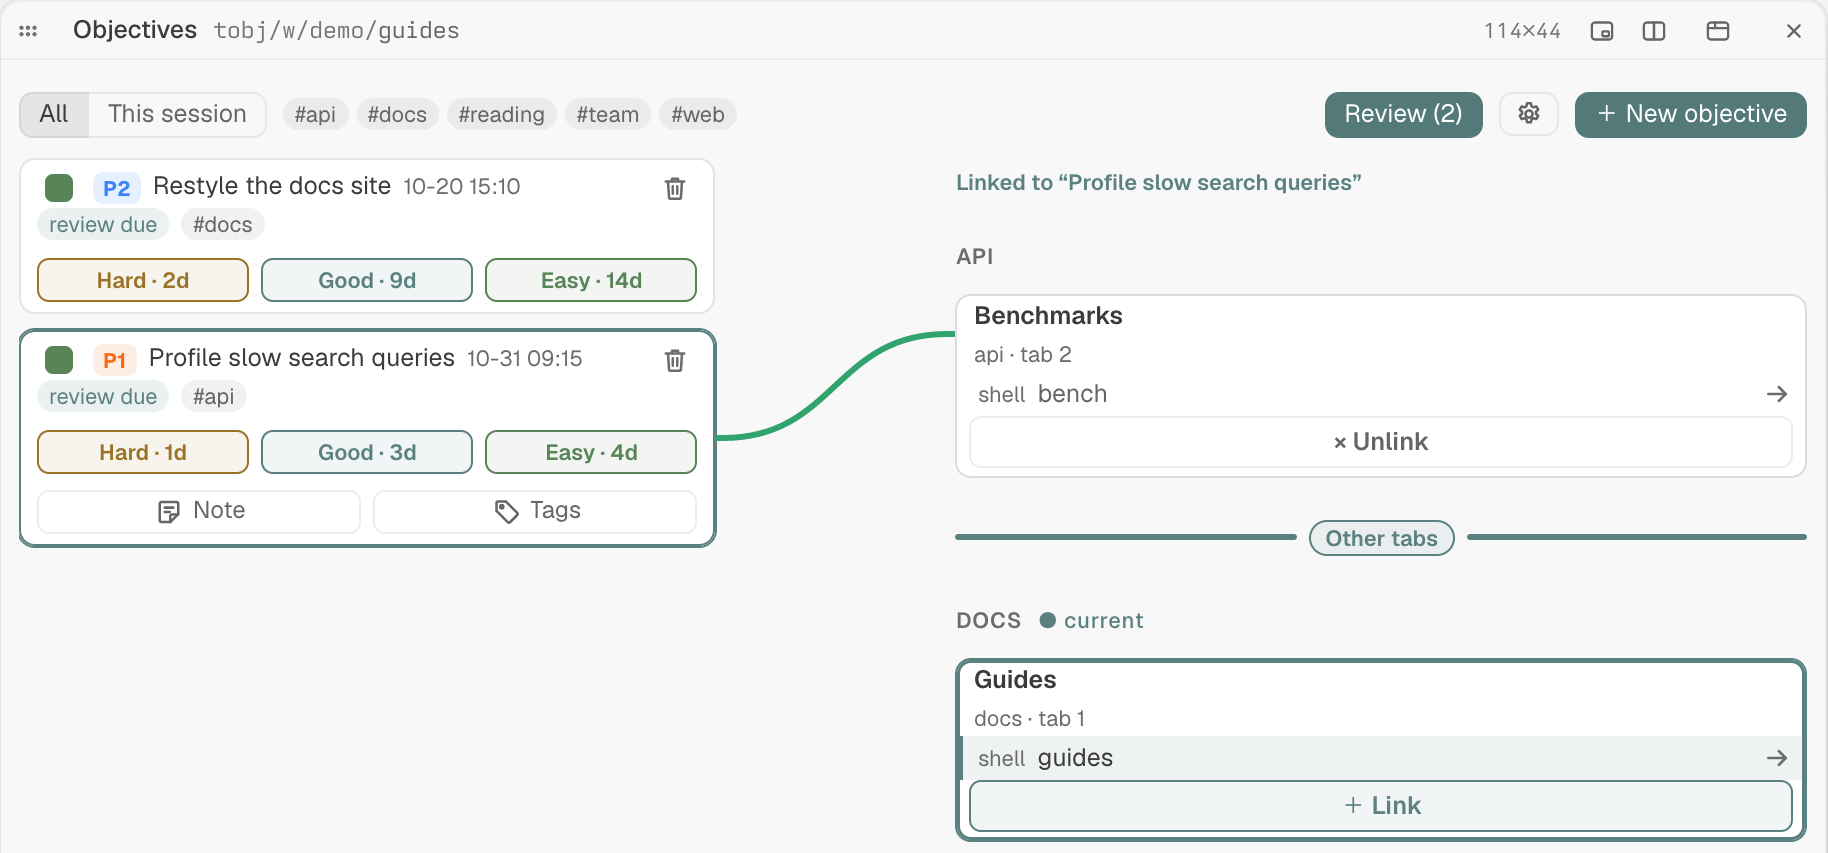
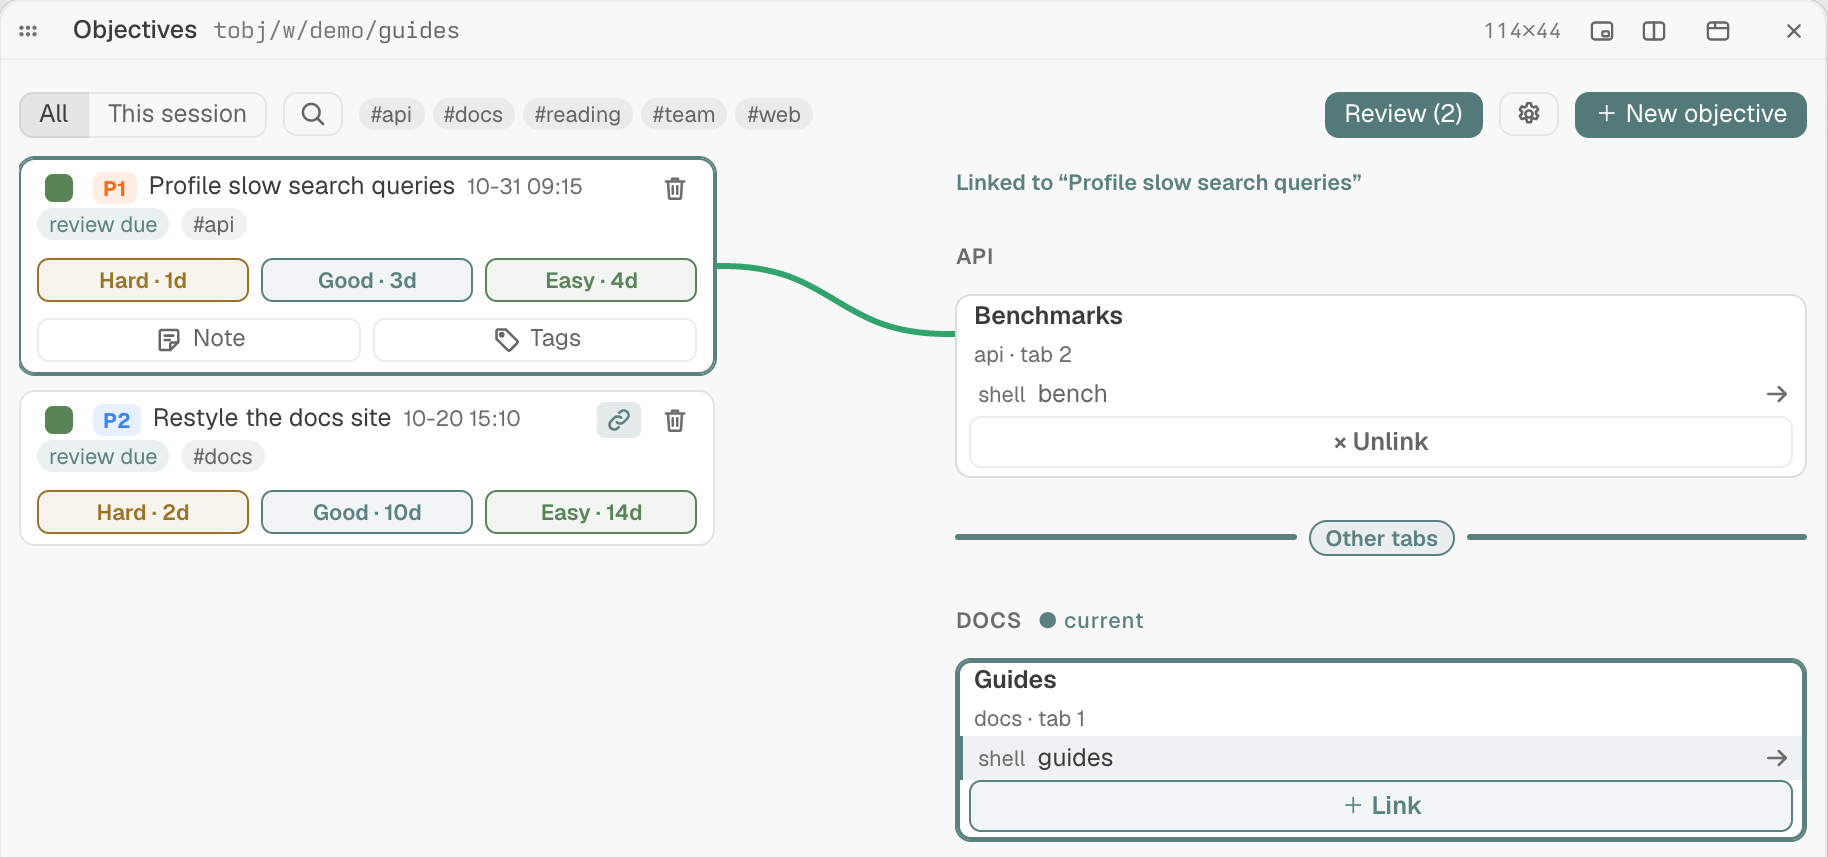
Retake both README screenshots with the link button

diff --git a/README.md b/README.md
@@ -2,7 +2,7 @@
 
 A [Tern](https://docs.stencil.so/tern) plugin for keeping track of what you are working on across sessions, and for remembering what you finished. It keeps one list of objectives and links each one to the tabs where its work happens, shown as a graph: objectives on the left, tabs on the right, a line for every link. Click a tab or pane to jump straight to it, in any session. Finished objectives come back for review on a spaced-repetition schedule, so you revisit what you did before you forget it.
 
-![The objectives graph, opened from the Guides tab: open objectives on the left by priority, P0 first, each with a grip to move it, a priority, due date and tags, two of them with titles wrapped onto two lines; "Fix login bug" ringed in amber with a "needs you" chip, and "Write release notes" in green with "replied"; "Read about rate limiting", which links Guides, tinted, with a thick line to Guides while the other lines fade; below them the open Done group, its objectives marked "review due" or "review in 4d"; the header has a Search button after All and This session, "Review (2)", a gear button for Configure and "＋ New objective"; tabs grouped by session on the right, with a line for each link: "Release notes" ringed in green with "replied", its open chat row showing "you:" and "omp:", and "Server" ringed in amber with "needs you" for its omp chat waiting for input](docs/graph.png)
+![The objectives graph, opened from the Guides tab: open objectives on the left by priority, P0 first, each with a grip to move it, a priority, due date and tags, two of them with titles wrapped onto two lines; "Fix login bug" ringed in amber with a "needs you" chip, and "Write release notes" in green with "replied"; "Read about rate limiting", which links Guides, tinted, with a thick line to Guides while the other lines fade, and its link icon highlighted at the right of its title; below them the open Done group, its objectives marked "review due" or "review in 4d", where "Restyle the docs site", which also links Guides, shows its highlighted link icon beside its trash icon; the header has a Search button after All and This session, "Review (2)", a gear button for Configure and "＋ New objective"; tabs grouped by session on the right, with a line for each link: "Release notes" ringed in green with "replied", its open chat row showing "you:" and "omp:", and "Server" ringed in amber with "needs you" for its omp chat waiting for input](docs/graph.png)
 
 ## Features
 
@@ -23,7 +23,7 @@ Marking an objective done schedules its first review for the next day, on the SM
 
 Review mode stays on when you close the graph: the next time you open it in the same window, it lists what is due then. Click the active **Review (n)** to leave it. ⌥N leaves it too, so the new objective shows in the list. Restarting Tern forgets it.
 
-![Review mode: two done objectives due for review, each with Hard, Good and Easy buttons showing the days until its next review (Hard · 1d, Good · 3d, Easy · 4d for one, Hard · 2d, Good · 9d, Easy · 14d for the other); the selected one shows its Note and Tags buttons and has a green line to the tab it was linked to, listed under "Linked to" at the top of the right column, where every tab offers "× Unlink" or "＋ Link"](docs/review.png)
+![Review mode: two done objectives due for review, each with Hard, Good and Easy buttons showing the days until its next review (Hard · 1d, Good · 3d, Easy · 4d for one, Hard · 2d, Good · 10d, Easy · 14d for the other); the selected one shows its Note and Tags buttons and has a green line to the tab it was linked to, listed under "Linked to" at the top of the right column, where every tab offers "× Unlink" or "＋ Link"; the other links Guides, the tab the graph was opened from, so its link icon is highlighted beside its trash icon; the header has the Search button after All and This session](docs/review.png)
 
 ## Install
 

diff --git a/openspec/changes/quick-link-button/tasks.md b/openspec/changes/quick-link-button/tasks.md
@@ -100,7 +100,7 @@ Checks run in the headless harness at `/tmp/tobj` unless marked **(live)**.
 
 ## 2. The README screenshots
 
-- [ ] 2.1 Take `docs/graph.png` and `docs/review.png` again (design D5), from the store saved in `/tmp/tobj/kv.demo-0250.json`:
+- [x] 2.1 Take `docs/graph.png` and `docs/review.png` again (design D5), from the store saved in `/tmp/tobj/kv.demo-0250.json`:
   - **`graph.png`:**
     - Release notes' omp chat replies while Guides has focus, and Server's waits for input;
     - the same window size (`ctl resize 1045 928`) and crop (914 × 808);
@@ -118,6 +118,33 @@ Checks run in the headless harness at `/tmp/tobj` unless marked **(live)**.
   - `review.png`: "Restyle the docs site" shows the highlighted button, and the header shows the Search button;
   - every line end in both shots sits within 2 px of its node and tab header centres, read from the layout JSON;
   - the user approved both drafts.
+
+  Result (harness, 2026-11-16):
+  - **Chats:** with Guides focused, Release notes' chat answered "In two short sentences, say what release notes for a web app should cover." (`idle` with its alert). Server's chat put a yes/no question about restarting the server before deploying, and waited (`waiting_input`). Both took 6 s.
+  - **`graph.png`** (1828 × 1616):
+    - `ctl resize 1045 928`, opened from pane 2 in Guides, the pointer at (3, 3), outside the graph. The glimpse was at the same box as before, 914.31 × 808.08, and was cropped there.
+    - "Read about rate limiting" is tinted, with a thick line to Guides and the highlighted button. "Restyle the docs site" in the Done group shows it too. The other buttons had 0 ink pixels.
+    - "Fix login bug" and Server are ringed amber with "needs you", and "Write release notes" and Release notes green with "replied".
+    - All 7 open nodes have grips, and no node has ⋯.
+    - The 22 px the button keeps cuts the second line of "Review pull requests for the onboarding and settings pages" to "onboarding and settings p…". The user was told this with the drafts.
+    - All 7 left and 6 right line ends sit within 0.3 px of their centres, measured 3 px inside the gap.
+  - **`review.png`** (1828 × 857, 4 px taller than before):
+    - review mode, opened from Guides, with "Profile slow search queries" selected: its Note and Tags row, and Benchmarks under `Linked to` with "× Unlink";
+    - "Restyle the docs site" shows the highlighted button beside its trash icon;
+    - the header shows the Search button;
+    - cropped from the glimpse's top to 8 px below the Guides node;
+    - the one green line's ends sit within 0.3 px. The gap column's other marks were at y 873 and 904, in the footer below the crop.
+
+    The ratings now read Hard · 2d, Good · 10d, Easy · 14d for "Restyle the docs site", where they read 9d for Good before. The rebuilt store's review data gives that.
+  - **Alt texts:**
+    - `graph.png`'s now names the highlighted icons on "Read about rate limiting" and "Restyle the docs site";
+    - `review.png`'s names the highlighted icon, the Search button and Good · 10d.
+  - **README checks:** the README has two images, `docs/graph.png` first (line 5), then `docs/review.png` (line 26). "README contents" still holds: the graph shot has the Done group open and Server marked "needs you", and the review shot has Hard, Good and Easy.
+  - **Approval:** the user approved both drafts before they were committed.
+  - **Cleanup:**
+    - the serve was stopped with `ctl quit`;
+    - the chat folders `--private-tmp-tobj-w-demo-notes--` and `--private-tmp-tobj-w-demo-serverchat--`, created today, were removed;
+    - `--private-tmp-tobj-w-docs--` and `--private-tmp-tobj-w-server--`, from earlier runs, were left as they were.
 
 ## 3. Release 0.26.0
 
